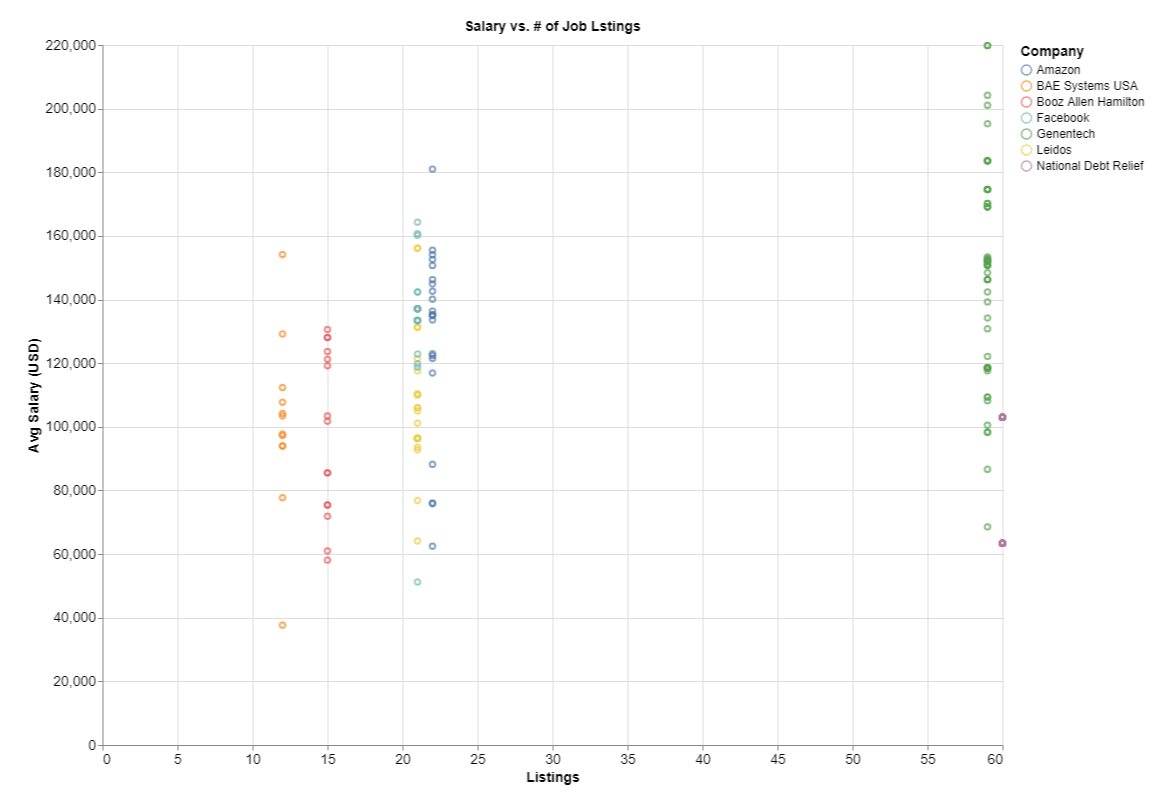
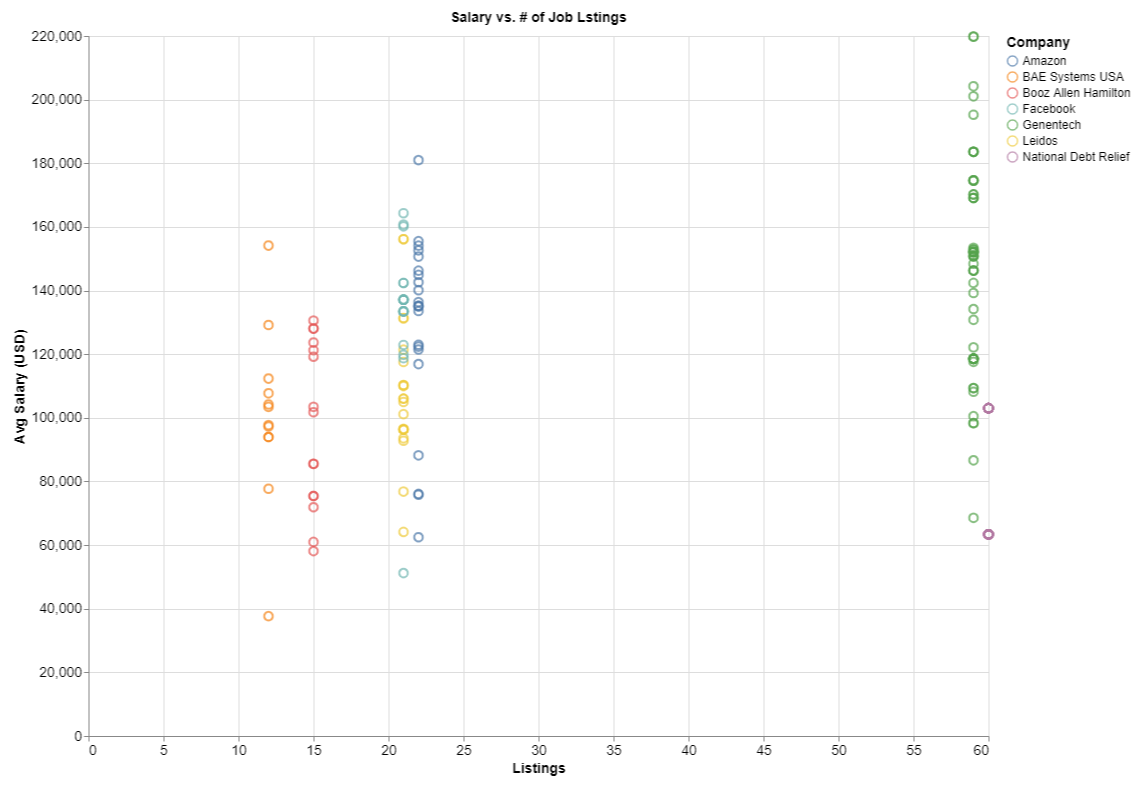
updated scatterplots

diff --git a/Source_Code/scatterplots.py b/Source_Code/scatterplots.py
@@ -34,12 +34,12 @@ time, so to look at the next plot you need to close the tab it rendered on.
 """
 
 ##=================== Salary vs. Ratings Scatterplot by Industry ===================##
-# mdict = merge_field('Industry',df_clean)
-# df_chart = pd.concat([mdict['Aerospace & Defense'], mdict['Biotech & Pharmaceuticals']],
-#                       ignore_index=True)
+mdict = merge_field('Industry',df_clean)
+df_chart = pd.concat([mdict['Business Services'],mdict['Information Technology'],mdict['Biotech & Pharmaceuticals']],
+                      ignore_index=True)
 
-# chart = salary_v_rating_scatter(df_chart,'Industry',separate=True)
-# chart.show()
+chart = salary_v_rating_scatter(df_chart,'Industry',separate=True)
+chart.show()
 
 ##=================== Salary vs. Ratings Scatterplot by Company ===================##
 # df_chart = pd.concat([mdict['Information Technology'], mdict['Finance'], mdict['Business Services'], 
@@ -60,15 +60,15 @@ time, so to look at the next plot you need to close the tab it rendered on.
 # chart.show()
 
 
-##=================== Salary vs. Listings Scatterplot by Industry ===================##
-# Choose how we want data to be organize
-mdict = merge_field('Company',df_clean)
+#=================== Salary vs. Listings Scatterplot ===================##
+# # Choose how we want data to be organize
+# mdict = merge_field('Company',df_clean)
 
-# Choose what entries we specifcally want to plot
-df_chart = pd.concat([mdict['Genentech'], mdict['National Debt Relief'], mdict['Leidos'], mdict['BAE Systems USA'],
-                      mdict['Facebook'], mdict['Amazon'], mdict['Booz Allen Hamilton']],
-                    ignore_index=True)
+# # Choose what entries we specifcally want to plot
+# df_chart = pd.concat([mdict['Genentech'], mdict['National Debt Relief'], mdict['Leidos'], mdict['BAE Systems USA'],
+#                       mdict['Facebook'], mdict['Amazon'], mdict['Booz Allen Hamilton']],
+#                     ignore_index=True)
 
-# Create and display plot
-chart = salary_v_listings_scatter(df_chart, 'Company')
-chart.show()
+# # Create and display plot
+# chart = salary_v_listings_scatter(df_chart, 'Company')
+# chart.show()

diff --git a/Source_Code/project_functions.py b/Source_Code/project_functions.py
@@ -357,14 +357,16 @@ def salary_v_rating_scatter(df_chart, legend, separate=False):
     df_chart = Chart(df_chart)
     
     if separate:
-        chart = df_chart.mark_point().encode(x='Avg_Salary',y='Rating',column=legend,color=legend)
+        chart = df_chart.mark_point().encode(x=alt.X('Avg_Salary', title='Avg Salary (USD)'),y='Rating',column=legend,color=alt.Color(legend, scale=alt.Scale(scheme='dark2')))
     else:
-        chart = df_chart.mark_point().encode(x='Avg_Salary',y='Rating',color=legend)
+        chart = df_chart.mark_point().encode(x=alt.X('Avg_Salary', title='Avg Salary (USD)'),y='Rating',color=legend)
     
-    chart = chart.properties(title = 'Salary vs. Company Ratings',height=500,width=600)
+    chart = chart.properties(title = 'Salary vs. Company Ratings',height=700,width=900)
     chart = chart.configure_header(titleFontSize=14,labelFontSize=14)
-    chart = chart.configure_axis(titleFontSize=14,labelFontSize=14)
+    chart = chart.configure_axis(titleFontSize=14,labelFontSize=14,tickCount=10)
     chart = chart.configure_title(fontSize=14)
+    chart = chart.configure_point(size=75)
+    chart = chart.configure_legend(titleFontSize=14,labelFontSize=12)
     
     return chart
 
@@ -416,8 +418,8 @@ def salary_v_listings_scatter(df_chart, legend, separate=False):
     chart = chart.configure_axis(titleFontSize=14,labelFontSize=14,tickCount=10)
     chart = chart.configure_title(fontSize=14)
     chart = chart.configure_legend(titleFontSize=14,labelFontSize=12)
-    
-        
+    chart = chart.configure_point(size=75)
+      
     return chart
         
 #=======================Radial Column Chart====================================#
